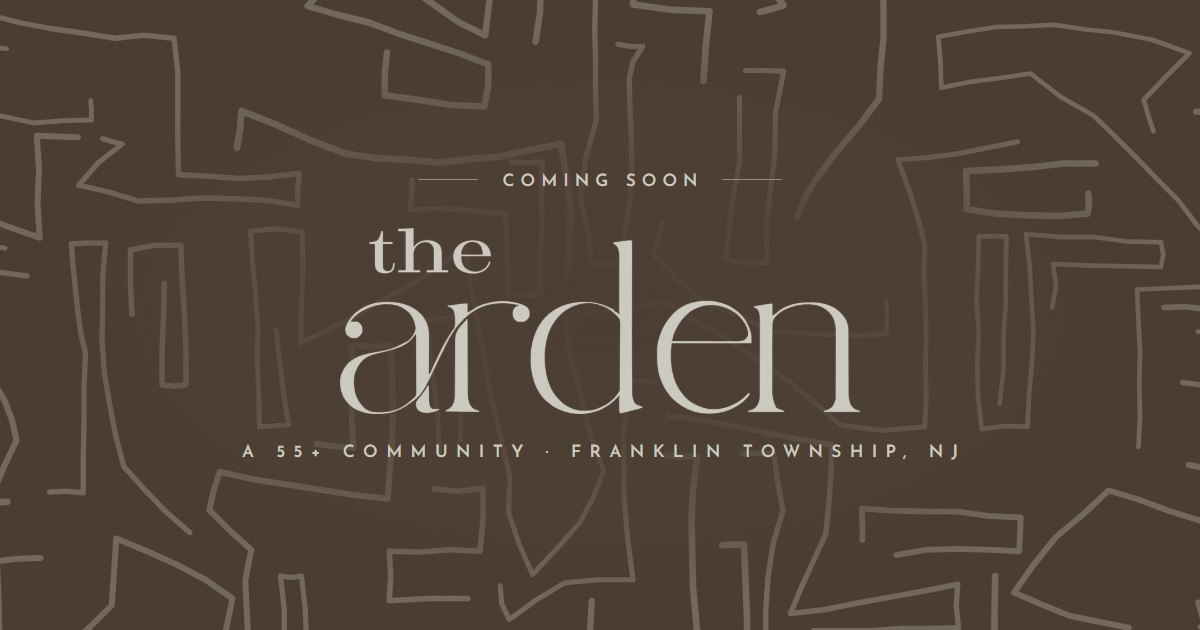
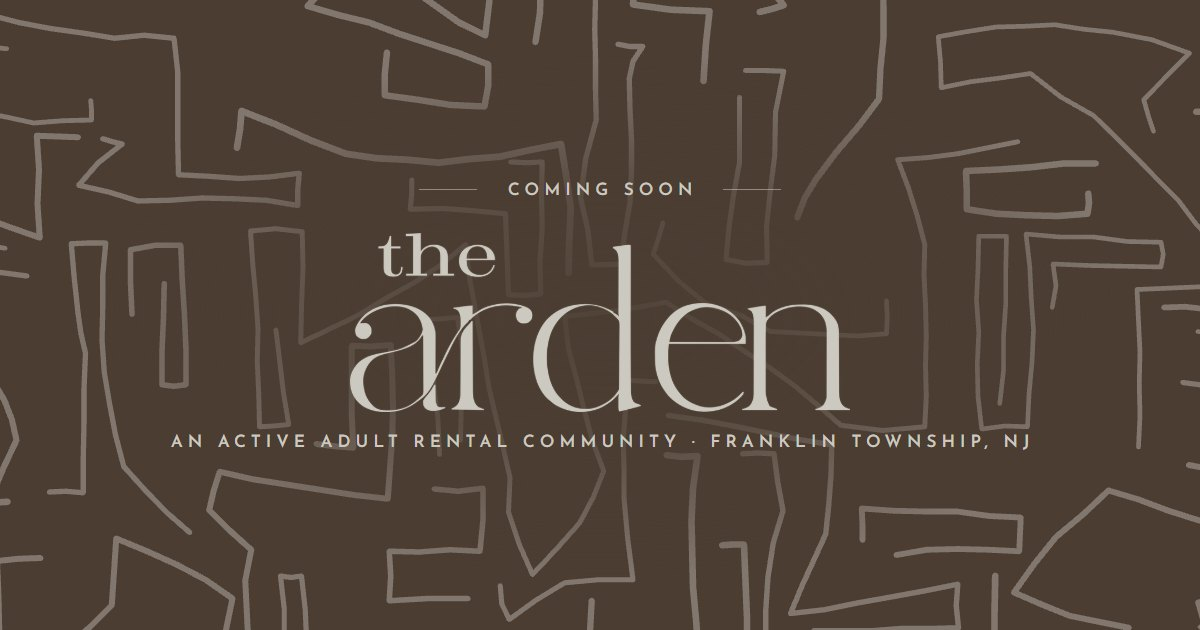
The Arden: splash round 3 (active adult wording, amenity/unit lists)
Nina's round-3 edits (2026-11-23):
- "55+ community" -> "active adult rental community" everywhere (hero,
  intro, interest fact, title/description/share tags, share image).
- About: "presented by Sterling Properties"; drop the name paragraph.
- Replace the Calm/Comfortable/Contemporary band with two half-width
  lists: Amenity Highlights and Unit Features (Nina's lists).
- Remove the paragraph under "Join the interest list."
- Footer: add a no-smoking badge; white heart in the Brudda's credit.
- STATUS: round 3, new wording constraint, form/SMTP waits on Rob.

diff --git a/arden-franklin/preview/index.html b/arden-franklin/preview/index.html
@@ -3,11 +3,11 @@
 <head>
   <meta charset="UTF-8">
   <meta name="viewport" content="width=device-width, initial-scale=1.0">
-  <title>The Arden — A 55+ Community Coming Soon to Franklin Township, NJ</title>
-  <meta name="description" content="The Arden, a new 55+ community from Sterling Properties in Franklin Township, New Jersey, is coming soon. Join the interest list for floor plans, pricing and leasing dates.">
+  <title>The Arden — An Active Adult Rental Community Coming Soon to Franklin Township, NJ</title>
+  <meta name="description" content="The Arden, a new active adult rental community presented by Sterling Properties in Franklin Township, New Jersey, is coming soon. Join the interest list for floor plans, pricing and leasing dates.">
   <meta name="robots" content="noindex, nofollow">
-  <meta property="og:title" content="The Arden — A 55+ Community, Coming Soon">
-  <meta property="og:description" content="Calm, comfortable and contemporary 55+ living, coming soon to Franklin Township, New Jersey.">
+  <meta property="og:title" content="The Arden — An Active Adult Rental Community, Coming Soon">
+  <meta property="og:description" content="Calm, comfortable and contemporary active adult living, coming soon to Franklin Township, New Jersey.">
   <meta property="og:image" content="../theme/arden-franklin/assets/images/social/share.jpg">
   <link rel="icon" type="image/png" sizes="32x32" href="../theme/arden-franklin/assets/images/site-icon/site-icon-32.png">
   <link rel="icon" type="image/png" sizes="192x192" href="../theme/arden-franklin/assets/images/site-icon/site-icon-192.png">
@@ -46,17 +46,17 @@
      itself: the primary logo in Stone on Espresso (the guide's "Primary Logo
      (Color)" panel) over the hand-drawn line pattern. The name is just
      "The Arden": Sterling dropped "at Sterling Pointe" (Nina, 2026-11-16).
-     The line under the logo says it is a 55+ community (confirmed by John,
-     2026-11-16). Say "55+ community" / "adults 55 and over"; never "senior",
+     The line under the logo says it is an active adult rental community
+     (Nina, 2026-11-23, replacing round 2's "55+ community"). Never "senior",
      "elderly" or "retirement". -->
-<section class="splash-hero" aria-label="The Arden — a 55+ community, coming soon">
+<section class="splash-hero" aria-label="The Arden — an active adult rental community, coming soon">
   <div class="splash-pattern" aria-hidden="true"></div>
   <div class="splash-hero__content">
     <p class="splash-hero__kicker"><span>Coming Soon</span></p>
     <h1 class="splash-hero__logo">
       <img src="../theme/arden-franklin/assets/images/logos/the-arden-logo-stone.png" alt="The Arden" width="900" height="322" fetchpriority="high">
     </h1>
-    <p class="splash-hero__community">A 55+ Community</p>
+    <p class="splash-hero__community">An Active Adult Rental Community</p>
     <p class="splash-hero__tagline">Calm, comfortable &amp; contemporary living, coming soon to Franklin&nbsp;Township, New&nbsp;Jersey.</p>
     <div class="splash-hero__ctas">
       <a href="#inquire" class="btn btn--primary">Join the Interest List</a>
@@ -67,9 +67,8 @@
 </section>
 
 
-<!-- INTRODUCTION — adapted from the naming rationale on page 2 of the
-     branding proposal. "A new community from Sterling Properties" is the only
-     claim about the building itself besides 55+; see STATUS → Copy to confirm. -->
+<!-- INTRODUCTION — "presented by Sterling Properties" and the removal of the
+     naming paragraph are Nina's round-3 edits (2026-11-23). -->
 <section class="splash-intro" id="about" aria-label="Introducing The Arden">
   <div class="container splash-intro__grid">
     <div class="splash-intro__lead" data-animate>
@@ -77,8 +76,7 @@
       <h2>Natural beauty, <em>timeless</em> sophistication.</h2>
     </div>
     <div class="splash-intro__body" data-animate>
-      <p class="splash-intro__lede">The Arden is a new 55+ community from Sterling Properties, taking shape in Franklin Township, New&nbsp;Jersey: a place for adults 55 and over to enjoy life's next chapter in calm, comfort and contemporary style.</p>
-      <p>Its name draws on the scenic landscapes that surround it, from the wooded trails of Six Mile Run to the gardens and open green spaces of Colonial Park, paired with a refined, contemporary spirit made for modern living.</p>
+      <p class="splash-intro__lede">The Arden is a new active adult rental community presented by Sterling Properties, taking shape in Franklin Township, New&nbsp;Jersey: a place for adults 55 and over to enjoy life's next chapter in calm, comfort and contemporary style.</p>
       <a href="#inquire" class="btn btn--secondary">Request More Information</a>
     </div>
   </div>
@@ -86,33 +84,38 @@
 </section>
 
 
-<!-- BRAND VALUES — "Calm, Comfortable, & Contemporary" is the brand's own line
-     (vibe board, page 3 of the proposal). The copy under each makes no claim
-     about finishes or amenities, which are not known yet. -->
-<section class="section--dark splash-pillars" aria-label="Calm, comfortable and contemporary">
+<!-- AMENITIES & UNIT FEATURES — both lists are Nina's (round 3, 2026-11-23),
+     replacing the Calm / Comfortable / Contemporary values. Add or remove
+     items only from Sterling's own lists. -->
+<section class="section--dark splash-features" id="features" aria-label="Amenity highlights and unit features">
   <div class="splash-pattern" aria-hidden="true"></div>
-  <div class="container">
-    <div class="splash-pillars__head" data-animate>
-      <span class="eyebrow">The Arden Way of Living</span>
-      <h2>Calm, comfortable <em>&amp;</em> contemporary.</h2>
+  <div class="container splash-features__grid">
+    <div class="splash-feature" data-animate>
+      <span class="eyebrow">The Community</span>
+      <h2>Amenity Highlights</h2>
       <div class="divider"></div>
+      <ul class="splash-feature__list">
+        <li>Fitness Center</li>
+        <li>Community Garden</li>
+        <li>Courtyard / Pergola</li>
+        <li>Dog Park</li>
+        <li>Community Clubroom</li>
+        <li>Pet Friendly</li>
+        <li>Private Road</li>
+      </ul>
     </div>
-    <div class="splash-pillars__grid">
-      <div class="splash-pillar" data-animate>
-        <span class="splash-pillar__num">i.</span>
-        <h3>Calm</h3>
-        <p>A quieter pace of life, surrounded by the parks, preserves and open green spaces of Franklin Township.</p>
-      </div>
-      <div class="splash-pillar" data-animate>
-        <span class="splash-pillar__num">ii.</span>
-        <h3>Comfortable</h3>
-        <p>Homes made for everyday ease, with the care and attention of a Sterling Properties community.</p>
-      </div>
-      <div class="splash-pillar" data-animate>
-        <span class="splash-pillar__num">iii.</span>
-        <h3>Contemporary</h3>
-        <p>Refined, modern living with a timeless sense of style, from the first look to the everyday.</p>
-      </div>
+    <div class="splash-feature" data-animate>
+      <span class="eyebrow">The Residences</span>
+      <h2>Unit Features</h2>
+      <div class="divider"></div>
+      <ul class="splash-feature__list">
+        <li>Balconies</li>
+        <li>Quartz Countertops</li>
+        <li>Stainless Steel Appliances</li>
+        <li>In-Unit Laundry</li>
+        <li>Private, Covered Garage Parking Available</li>
+        <li>Storage Rooms Available</li>
+      </ul>
     </div>
   </div>
 </section>
@@ -166,7 +169,6 @@
       <span class="eyebrow">Be the First to Know</span>
       <h2>Join the interest&nbsp;list.</h2>
       <div class="divider"></div>
-      <p>The Arden is coming soon to Franklin Township. Share your details and our leasing team will reach out with floor plans, pricing and leasing dates as soon as they're available.</p>
       <div class="splash-interest__facts">
         <div>
           <p class="contact-label">Address</p>
@@ -177,7 +179,7 @@
           <p><a href="mailto:thearden@spgnj.com">thearden@spgnj.com</a></p>
         </div>
         <div>
-          <p class="contact-label">A 55+ Community By</p>
+          <p class="contact-label">An Active Adult Rental Community Presented By</p>
           <p>Sterling Properties</p>
         </div>
       </div>
@@ -249,9 +251,10 @@
   <div class="footer-badges" aria-label="Fair housing and accessibility">
     <img src="../theme/arden-franklin/assets/images/badges/equal-housing.svg" alt="Equal Housing Opportunity" width="26" height="25">
     <img src="../theme/arden-franklin/assets/images/badges/accessible.svg" alt="Accessible community" width="22" height="25">
+    <img src="../theme/arden-franklin/assets/images/badges/no-smoking.svg" alt="Smoke-free community" width="25" height="25">
   </div>
   <div class="footer-bottom">
-    <p class="footer-bottom__copy">&copy; 2026 The Arden. A Sterling Properties Community. All rights reserved. Made with ❤ by <a href="https://bruddasindustries.com" target="_blank" rel="noopener noreferrer">Brudda's Industries</a>.</p>
+    <p class="footer-bottom__copy">&copy; 2026 The Arden. A Sterling Properties Community. All rights reserved. Made with <span class="footer-heart" role="img" aria-label="love">&#9829;&#xFE0E;</span> by <a href="https://bruddasindustries.com" target="_blank" rel="noopener noreferrer">Brudda's Industries</a>.</p>
     <a class="footer-bottom__brand" href="https://sterlingpropertiesnj.com" target="_blank" rel="noopener noreferrer" aria-label="A Sterling Properties community">
       <img class="footer-sterling-logo" src="../theme/arden-franklin/assets/images/logos/sterling-logo-white.png" alt="Sterling Properties">
     </a>

diff --git a/arden-franklin/theme/arden-franklin/assets/css/global.css b/arden-franklin/theme/arden-franklin/assets/css/global.css
@@ -935,6 +935,9 @@ body.has-video-hero.nav-is-open .site-header {
 }
 
 .footer-bottom__copy a:hover { color: rgba(244, 242, 237, 0.9); }
+/* The Brudda's heart is white, not the red emoji (Nina, 2026-11-23). U+FE0E
+   asks for the text glyph so the colour applies. */
+.footer-heart { color: #fff; }
 
 .footer-bottom__brand {
   display: flex;
@@ -3471,8 +3474,8 @@ html, body { overflow-x: clip; }
    29n. COMING-SOON SPLASH (index.html until the full site launches)
    ==========================================================================
    One page: a dark brand hero (no photography exists yet, so the hero is the
-   logo on espresso over the hand-drawn line pattern), an introduction, the three
-   brand values on a dark band, the setting, and the interest-list form. Every
+   logo on espresso over the hand-drawn line pattern), an introduction, the
+   amenity and unit-feature lists on a dark band, the setting, and the interest-list form. Every
    dark component here is registered in BOTH dark-band lists in section 4.
    ========================================================================== */
 
@@ -3676,34 +3679,45 @@ html, body { overflow-x: clip; }
   pointer-events: none;
 }
 
-/* ---- Brand values on a dark band ------------------------------------------- */
-.splash-pillars { position: relative; isolation: isolate; overflow: hidden; }
-.splash-pillars .splash-pattern { opacity: 0.1; background-position: 70% 30%; }
-.splash-pillars__head { text-align: center; max-width: 760px; margin: 0 auto var(--space-9); }
-.splash-pillars__head .divider { margin-inline: auto; }
-.splash-pillars__head h2 { font-size: var(--text-3xl); }
-.splash-pillars__grid {
+/* ---- Amenity highlights + unit features on a dark band ---------------------
+   Round 3 (Nina, 2026-11-23) replaced the Calm / Comfortable / Contemporary
+   values with two half-width lists divided by a Stone hairline. */
+.splash-features { position: relative; isolation: isolate; overflow: hidden; }
+.splash-features .splash-pattern { opacity: 0.1; background-position: 70% 30%; }
+.splash-features__grid {
   display: grid;
-  grid-template-columns: repeat(3, minmax(0, 1fr));
+  grid-template-columns: repeat(2, minmax(0, 1fr));
+}
+.splash-feature { padding: 0 clamp(1.5rem, 5vw, 5rem); }
+.splash-feature:first-child { padding-left: 0; border-right: 1px solid rgba(204, 201, 192, 0.24); }
+.splash-feature:last-child { padding-right: 0; }
+.splash-feature h2 { font-size: var(--text-3xl); }
+.splash-feature__list {
+  list-style: none;
+  margin: var(--space-6) 0 0;
+  padding: 0;
   border-top: 1px solid rgba(204, 201, 192, 0.24);
 }
-.splash-pillar {
-  padding: var(--space-8) clamp(1.25rem, 3vw, 2.75rem) 0;
-  border-left: 1px solid rgba(204, 201, 192, 0.24);
-}
-.splash-pillar:first-child { border-left: 0; padding-left: 0; }
-.splash-pillar:last-child { padding-right: 0; }
-.splash-pillar__num {
-  display: block;
+.splash-feature__list li {
+  display: flex;
+  align-items: baseline;
+  gap: var(--space-4);
+  padding: var(--space-4) 0;
+  border-bottom: 1px solid rgba(204, 201, 192, 0.24);
   font-family: var(--font-heading);
-  font-size: var(--text-2xl);
-  font-style: italic;
+  font-size: var(--text-xl);
   font-weight: var(--weight-light);
-  line-height: 1;
-  color: var(--color-sage);                 /* large text: 3.4:1 on espresso */
+  line-height: 1.3;
+  color: var(--color-on-dark);
 }
-.splash-pillar h3 { font-size: var(--text-2xl); margin: var(--space-4) 0; }
-.splash-pillars .splash-pillar p { color: var(--color-on-dark-muted); max-width: 34ch; }
+.splash-feature__list li::before {
+  content: '';
+  flex: none;
+  width: 7px;
+  height: 7px;
+  transform: translateY(-0.2em) rotate(45deg);
+  border: 1px solid var(--color-sage);
+}
 
 /* ---- The setting ---------------------------------------------------------------- */
 /* Heading and copy on the left, the three places on the right, as in the
@@ -3790,14 +3804,9 @@ html, body { overflow-x: clip; }
   .splash-setting__grid,
   .splash-interest__grid { grid-template-columns: minmax(0, 1fr); }
   .splash-intro__lead h2 { max-width: 16ch; }
-  .splash-pillars__grid { grid-template-columns: minmax(0, 1fr); border-top: 0; }
-  .splash-pillar,
-  .splash-pillar:first-child {
-    border-left: 0;
-    border-top: 1px solid rgba(204, 201, 192, 0.24);
-    padding: var(--space-7) 0;
-  }
-  .splash-pillar:last-child { padding-bottom: 0; }
+  .splash-features__grid { grid-template-columns: minmax(0, 1fr); gap: var(--space-9); }
+  .splash-feature,
+  .splash-feature:first-child { padding: 0; border-right: 0; }
 }
 @media (max-width: 640px) {
   .splash-hero__ctas { flex-direction: column; align-items: stretch; width: min(100%, 320px); }

diff --git a/arden-franklin/preview/site.js b/arden-franklin/preview/site.js
@@ -36,7 +36,7 @@
 
   /* ------------------------------------------------ 2. scroll reveal */
   var reveal = $$('[data-animate]');
-  $$('.splash-pillars__grid, .splash-places').forEach(function (grid) {
+  $$('.splash-places').forEach(function (grid) {
     $$('[data-animate]', grid).forEach(function (el, i) { el.style.transitionDelay = (i * 90) + 'ms'; });
   });
   if (!('IntersectionObserver' in window)) {

diff --git a/docs/STATUS.md b/docs/STATUS.md
@@ -582,7 +582,7 @@ then the official website closer to the end of December.** She describes a splas
 page of a website with general information and more of a COMING SOON vibe. 'Inquire here for
 more information' etc.", and points to Blue Hill's (`bluehillnj.com`) as the example.
 
-**Stage: coming-soon splash in client review; round 1 of revisions done (2026-11-16).** The page
+**Stage: coming-soon splash in client review; round 3 of revisions done (2026-11-23).** The page
 is `arden-franklin/preview/index.html` (built 2026-11-13, PR #60). It is a single page; there are
 no Residents, Availability or Gallery pages yet. `theme/arden-franklin/` holds only `assets/`
 (`global.css`, logos, site icons, the share image, the line-pattern texture and the fonts README).
@@ -613,10 +613,33 @@ reaction: "we love the modern background design and neutral colors."
   setting section is gone. The section is now two columns like the intro: heading and copy on
   the left, the three places on the right.
 
-**55+ wording (client-verified constraint, John 2026-11-16).** Say "55+ community", "55+ adult
-community" or "adults 55 and over". **Never "senior", "elderly" or "retirement"**, which read the
-wrong way. Make no claim about age verification, occupancy rules or HOPA status unless Sterling
-supplies the wording.
+**Round 3 (Nina, 2026-11-23, PR for `feature/arden-splash-round3`):**
+- Every "55+ community" is now **"active adult rental community"**: the hero line under the logo,
+  the intro, the interest-section fact ("An Active Adult Rental Community Presented By / Sterling
+  Properties"), the title, description and share tags, and the share image (rebuilt). The intro
+  still says "a place for adults 55 and over" (she asked only about "55+ community"; see Copy to
+  confirm).
+- About: "presented by Sterling Properties" (was "from"); the paragraph about the name (Six Mile
+  Run, Colonial Park) is gone.
+- The Calm / Comfortable / Contemporary band is replaced by two half-width lists on the same dark
+  band (`#features`, `.splash-features`): **Amenity Highlights** — Fitness Center, Community
+  Garden, Courtyard / Pergola, Dog Park, Community Clubroom, Pet Friendly, Private Road — and
+  **Unit Features** — Balconies, Quartz Countertops, Stainless Steel Appliances, In-Unit Laundry,
+  Private, Covered Garage Parking Available, Storage Rooms Available. Both lists are Nina's; the
+  eyebrows ("The Community", "The Residences") are ours.
+- The paragraph under "Join the interest list." is gone.
+- Footer: a **no-smoking** badge (`badges/no-smoking.svg`, drawn to match the other two) and a
+  white heart in place of the red ❤ in the Brudda's credit.
+- She also asked for screenshots of each background pattern to compare: the round-1 contour lines
+  and the current line pattern, both on today's hero, were sent separately (not in the repo).
+- **Not done here:** the form. Nina wants every submission collected and an auto-responder email;
+  John is emailing Rob about the SMTP connection for `thearden@spgnj.com`, and offering a pre-built
+  HTML auto-responder template (not built yet).
+
+**Community wording (client-verified constraint, Nina 2026-11-23; replaces John's 2026-11-16 "55+
+community" rule).** Call it an **"active adult rental community"**. **Never "senior", "elderly" or
+"retirement"**, which read the wrong way. Make no claim about age verification, occupancy rules or
+HOPA status unless Sterling supplies the wording.
 
 **Naming (decided with John, 2026-11-13).**
 - Slug: `arden-franklin`.
@@ -661,31 +684,35 @@ supplies the wording.
   form shows a thank-you state and sends nothing; on WordPress it becomes a lead form (theme
   1.18's Leads). There is no inquiry pop-up: the whole page is the inquiry.
 - Site icons are the espresso "ar" mark on Stone, opaque (32–512px); the 1200×630 share image is
-  the hero (logo, "Coming Soon", "A 55+ Community · Franklin Township, NJ") on the line pattern.
+  the hero (logo, "Coming Soon", "An Active Adult Rental Community · Franklin Township, NJ") on the
+  line pattern, rendered from HTML with Playwright (round 3).
 
 ### Open — The Arden
 
 **Copy to confirm with the client.** None of these is verified with Sterling:
-- **What the building is.** Beyond 55+, the page says only "a new 55+ community from Sterling
-  Properties". The same article describes two four-storey buildings of 30 apartments each; a
+- **"Adults 55 and over."** The intro still says "a place for adults 55 and over to enjoy life's
+  next chapter". Round 3 moved every "55+ community" to "active adult rental community"; ask Nina
+  whether this age line should stay or go too.
+- **What the building is.** Beyond the amenity and unit-feature lists (Nina, round 3), the page
+  says only "a new active adult rental community presented by Sterling Properties". The same article describes two four-storey buildings of 30 apartments each; a
   traffic letter in the township's records says 60 apartments in two three-storey buildings.
-  Neither figure, nor "luxury", nor any unit mix, amenity or finish is on the page.
+  Neither figure, nor "luxury", nor any unit mix is on the page.
 - **The setting.** Six Mile Run and Colonial Park come from the branding proposal. The D&R Canal
   towpath and the park descriptions (Six Mile Run State Park is part of D&R Canal State Park;
   Colonial Park has the Rudolf W. van der Goot Rose Garden) are public facts added for the page.
   No distances are given; now that the address is known they can be measured with OSRM if
   Sterling wants them.
-- **"The Arden Way of Living"** pillars (Calm / Comfortable / Contemporary) expand the brand's
-  vibe-board line with general copy that makes no factual claim.
-- **Form fields.** Name, email, phone, ideal move-in timing and questions. Ask Nina what she
-  wants collected (Blue Hill's shows no form fields), and where leads should go.
+- **Form fields.** Name, email, phone, ideal move-in timing and questions. Nina (round 3) wants
+  all submissions collected plus an auto-responder; the delivery route waits on Rob (SMTP for
+  `thearden@spgnj.com`).
 
 **Waiting on Nina:** the leasing phone; whether a leasing office or sales centre will be open
-before launch; the leasing or opening timeline; what the form should collect
-and where leads go; any renderings, floor plans or site photography; web licences for Ansam and
+before launch; the leasing or opening timeline; Rob's SMTP set-up for `thearden@spgnj.com`
+and whether they want the HTML auto-responder template; any renderings, floor plans or site photography; web licences for Ansam and
 Mont; and who controls DNS for `theardennj.com`.
 
-**Next:** merge round 1 so the client link updates, and send Nina the changelog. Further revision
+**Next:** merge round 3 so the client link updates, and send Nina the changelog and the two
+pattern screenshots. Further revision
 rounds use **edit-site-dev**. For the go-live of the splash itself, decide with John whether it goes
 onto the multisite as a one-page Arden site (the splash as a page pattern) or stays static until
 the December site.
